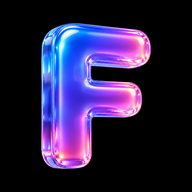
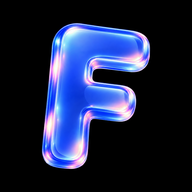
Firmony: his third set of glass, the papers of a month, the coins and the F
Claude-Session: https://claude.ai/code/session_011idCYf4ky76PcXdLg12b7k

diff --git a/src/config.ts b/src/config.ts
@@ -110,7 +110,7 @@ export type ArtSlot =
   | 'logo'
   | 'mark'
   | 'envelope'
-  | 'calc'
+  | 'savings'
   | 'seed'
   | 'plant'
   | 'tree'
@@ -127,26 +127,29 @@ export type ArtSlot =
   | 'paperReturn'
   | 'founder'
 
-/** One of his glass objects, cut square at 960 and 480 px (the first set made see-through from black). */
+/** One of his glass objects, cut square at 960 and 480 px. */
 const glass = (name: string): Art => ({ src: `/art/${name}.webp`, alt: '', width: 960, height: 960, small: { src: `/art/${name}-480.webp`, width: 480 } })
 
 /**
  * The pictures of the site: 3D glass icons he makes in ChatGPT, never realistic photographs (his word of
- * 13 October 2026, 01:52: "realistické fotky generovať nebudem, to vyzerá úboho").
- * - His first set (13 October 2026, iridescent glass made for black; sources in art-src/): the F (`mark`,
- *   and the browser's and a shared link's icons), the envelope of the e-invoice band and the calculator
- *   of the comparison, all on black.
- * - The second set (prompts of 13 October 2026, 01:57; the same glass in the blue of the brand, on a
- *   transparent background, for the white parts): seed, plant and tree for the three plans, chip and lens
- *   for the machine and the person, rocket and key for the two ways in, seal for the company.
+ * 13 October 2026, 01:52: "realistické fotky generovať nebudem, to vyzerá úboho"). All of them are the same
+ * glass in the blue of the brand with pink light on its edges, on a transparent background (sources in
+ * art-src/icons/, cut by `scripts/art.py icon`; the F by `scripts/art.py logo`):
+ * - the second set (prompts of 01:57, sent at 02:04): seed, plant and tree for the three plans, chip and lens
+ *   for the machine and the person, rocket and key for the two ways in, seal for the company;
+ * - the third (asked for at 14:12, sent at 14:51): the F (`mark`, the notification in the phone, the
+ *   browser's and a shared link's icons), and the papers of a month: a slip, an invoice with a tick, a bank
+ *   card, an envelope with a document (also the e-invoice band's), a calendar with a tick, and a stack of
+ *   coins for what a client saves.
+ * - chat (the question to the accountant) is still of the first set, iridescent glass made for black.
  * - founder: his own photo beside his note, a real one.
  * A slot without a picture shows nothing.
  */
 export const ART: Record<ArtSlot, Art | null> = {
   logo: { src: '/art/logo-small.webp', alt: '', width: 128, height: 128 },
   mark: { src: '/art/logo.webp', alt: '', width: 960, height: 960 },
-  envelope: glass('envelope'),
-  calc: glass('calculator'),
+  envelope: glass('mail'),
+  savings: glass('coins'),
   seed: glass('seed'),
   plant: glass('plant'),
   tree: glass('tree'),
@@ -157,11 +160,11 @@ export const ART: Record<ArtSlot, Art | null> = {
   seal: glass('seal'),
   chat: glass('chat'),
   /* The papers that fly into the phone in the opening, each the icon of its row there. */
-  paperReceipt: glass('receipt'),
-  paperInvoice: glass('bundle'),
-  paperBank: glass('bank'),
-  paperEinvoice: glass('envelope'),
-  paperReturn: glass('calendar'),
+  paperReceipt: glass('slip'),
+  paperInvoice: glass('doc'),
+  paperBank: glass('card'),
+  paperEinvoice: glass('mail'),
+  paperReturn: glass('deadline'),
   founder: null,
 }
 

diff --git a/src/views/home.tsx b/src/views/home.tsx
@@ -319,7 +319,7 @@ const AskScreen: FC = () => {
 }
 
 const MOMENTS = [
-  { id: 'scan', text: copy.month.snap, Screen: ScanScreen, art: ART.paperInvoice },
+  { id: 'scan', text: copy.month.snap, Screen: ScanScreen, art: ART.paperReceipt },
   { id: 'file', text: copy.month.file, Screen: FileScreen, art: ART.seal },
   { id: 'ask', text: copy.month.ask, Screen: AskScreen, art: ART.chat },
 ] as const
@@ -575,7 +575,7 @@ const Calculator: FC<{ state: CalcState; carry: Carry }> = ({ state, carry }) =>
             </button>
           </form>
           <div class="calc__result" role="status">
-            <Picture art={ART.calc} className="calc__object" sizes="(max-width: 960px) 120px, 180px" />
+            <Picture art={ART.savings} className="calc__object" sizes="(max-width: 960px) 120px, 180px" />
             {state.invalid ? <p class="calc__message">{copy.calc.invalid}</p> : <Comparison result={!r || r.kind === 'empty' ? compare(EXAMPLE) : r} example={!r || r.kind === 'empty'} />}
           </div>
         </div>

diff --git a/scripts/art.py b/scripts/art.py
@@ -40,9 +40,9 @@ from PIL import Image, ImageDraw, ImageFont
 ROOT = os.path.join(os.path.dirname(os.path.abspath(__file__)), '..')
 PUBLIC = os.path.join(ROOT, 'public')
 ART = os.path.join(PUBLIC, 'art')
-FONT = os.path.join(PUBLIC, 'fonts', 'host-latin.woff2')
+FONT = os.path.join(PUBLIC, 'fonts', 'geist-latin.woff2')
 NAME = 'firmony'
-PINK = (255, 122, 182)
+ACCENT = (142, 155, 255)
 
 # How much of its square the picture's larger side takes.
 LOGO_COVER = 0.88
@@ -110,7 +110,7 @@ def save(image, path, **options):
 
 
 def wordmark(height):
-    """The name as the header sets it, bold and tight, with its pink full stop. On black, `height` px of type."""
+    """The name as the header sets it, bold and tight, with its full stop in the light of the glass. On black."""
     font = ImageFont.truetype(FONT, height)
     font.set_variation_by_axes([700])
     tracking = -0.05 * height
@@ -121,7 +121,7 @@ def wordmark(height):
     line = Image.new('RGB', (width + height, ascent + descent), (0, 0, 0))
     draw = ImageDraw.Draw(line)
     for i, (letter, start) in enumerate(zip(text, starts)):
-        draw.text((height // 2 + start, 0), letter, font=font, fill=PINK if i == len(NAME) else (255, 255, 255))
+        draw.text((height // 2 + start, 0), letter, font=font, fill=ACCENT if i == len(NAME) else (255, 255, 255))
     return line.crop(line.getbbox())
 
 
@@ -139,7 +139,12 @@ def share(source):
 
 
 def logo(source):
-    picture = Image.open(source).convert('RGB')
+    picture = Image.open(source)
+    if picture.mode in ('RGBA', 'LA'):
+        # A logo with its own transparency is laid on black first, so that its glow fades as it was drawn.
+        ground = Image.new('RGBA', picture.size, (0, 0, 0, 255))
+        picture = Image.alpha_composite(ground, picture.convert('RGBA'))
+    picture = picture.convert('RGB')
     left, _, right, _ = subject(picture)
     print(f'source {picture.width} x {picture.height}, the logo in it is {right - left} px wide')
     os.makedirs(ART, exist_ok=True)
